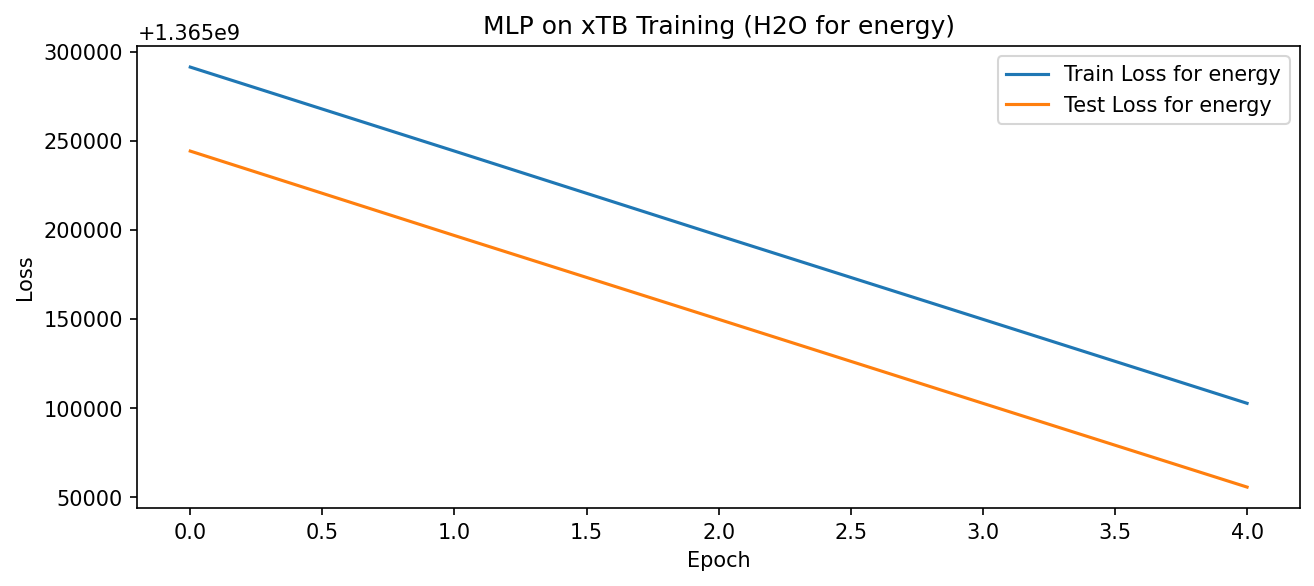
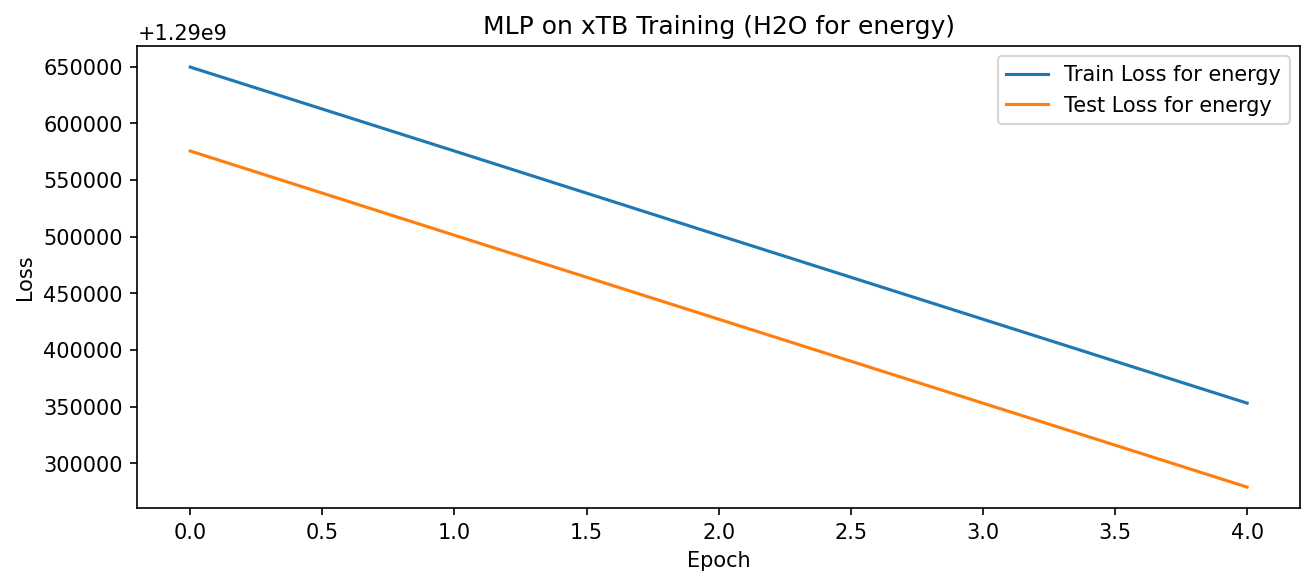
including autograd for forces

diff --git a/mlp2.py b/mlp2.py
@@ -271,11 +271,35 @@ def molecules_to_tensors(molecules, device):
         # 5. LJ forces
         F_atom_t = torch.tensor(F_atom, dtype=torch.float32, device=device)
 
-        samples.append((node_t, edge_t, trip_t, pos_t, E_total, F_atom_t, N))
+        samples.append((node_t, edge_t, trip_t, pos_t, E_total, F_atom_t, N, els))
         targets_E.append(E_total)
 
     return samples, targets_E
 
+# everything here should be in pytorch 
+def edge_features_torch(pos_t, elements, cutoff: float = 4.0):
+    """For autograd to generate forces"""
+    N = len(elements)
+    pairs = torch.triu_indices(row=N, col=N, offset=1) # unique pairs of atom indices
+
+    
+    i_idx = pairs[0]
+    j_idx = pairs[1]
+    diff = pos_t[i_idx] - pos_t[j_idx]
+    dists = torch.norm(diff, dim=-1)
+    mask = dists < cutoff 
+    dists = dists[mask] # applying cutoff for meaningful distances
+    print(f'shape of distsL {dists.shape}')
+    log_prods = torch.tensor([log_primes[elements[i]] + log_primes[elements[j]]
+                         for i, j in zip(i_idx.tolist(), j_idx.tolist())], dtype=pos_t.dtype)
+    
+    log_prods = log_prods[mask]
+    print(f'shape of log prds: {log_prods.shape}')
+    edge_features = torch.stack((log_prods, dists), dim=1)
+
+    print(f'Shape of edge features: {edge_features.shape}')
+    return edge_features
+    
 
 # DATASET CLASS + COLLATE
 class EnergyDataset(Dataset):
@@ -304,12 +328,13 @@ def collate_fn(batch):
     E_total_batch = torch.tensor([b[4] for b in batch], dtype=torch.float32, device=device)
     F_batch = [b[5] for b in batch]
     N_batch = [b[6] for b in batch]
+    elements_batch = [b[7] for b in batch]
 
     return (node_batch, edge_batch, triplet_batch, pos_batch,
-            E_total_batch, F_batch, N_batch)
+            E_total_batch, F_batch, N_batch, elements_batch)
 
 
-def train_model_energy(model, train_loader, test_loader, optimizer, epochs):
+def train_model_energy_forces(model, train_loader, test_loader, optimizer, epochs):
     train_losses = []
     test_losses = []
 
@@ -320,33 +345,44 @@ def train_model_energy(model, train_loader, test_loader, optimizer, epochs):
         epoch_loss = 0.0
 
         for (node_batch, edge_batch, triplet_batch, pos_batch,
-             E_total_tar, F_tar, N_batch) in train_loader:
+             E_total_tar, F_tar, N_batch, elements_batch) in train_loader:
 
             batch_size = len(E_total_tar)
             optimizer.zero_grad()
 
-            loss_E_tot = 0.0
+            batch_loss = 0.0
 
             for i in range(batch_size):
                 node_i = node_batch[i]
-                edge_i = edge_batch[i]
+                # edge_i = edge_batch[i]
                 trip_i = triplet_batch[i]
+                F_tar_i = F_tar[i]
+                elements_i = elements_batch[i]
+                
                 pos_i = pos_batch[i].clone().detach().requires_grad_(True)
+                
                 N = N_batch[i]
+                # computing edge features in training to access forces
+                edge_i = edge_features_torch(pos_i, elements_i)
 
-                # 1. Total energy loss (LJ)
-                total_E_pred = model.forward_energy(node_i, edge_i, trip_i)
-                loss_E = (total_E_pred - E_total_tar[i])**2
-                loss_E_tot += loss_E
+                # 1. energy loss 
+                E_pred = model.forward_energy(node_i, edge_i, trip_i)
+                loss_E = (E_pred - E_total_tar[i])**2
+                
 
-            loss_E_avg = loss_E_tot / batch_size
-        
-           
-            total_loss = loss_E_avg 
+                # 2. Force loss 
+                grads = torch.autograd.grad(E_pred, pos_i, create_graph=True)[0]
+                F_pred = -grads
+                loss_F = ((F_pred - F_tar_i)**2).mean()
+            
+                batch_loss += loss_E + loss_F # equal weighting for now
+
+            total_loss = batch_loss / batch_size
+
             #print("Running batch loss tracker. E_loss:", loss_E_avg) 
             total_loss.backward()
             optimizer.step()
-            epoch_loss += total_loss
+            epoch_loss += total_loss.item()
 
         avg_epoch_loss = epoch_loss /len(train_loader)
         print("Running epoch loss tracker:", avg_epoch_loss, "last epoch's loss:", last_epoch_loss) 
@@ -356,32 +392,40 @@ def train_model_energy(model, train_loader, test_loader, optimizer, epochs):
         # Evaluation
         model.eval()
         test_loss = 0.0
-        with torch.no_grad():
-            for (node_batch, edge_batch, triplet_batch, pos_batch,
-                 E_total_tar,F_tar, N_batch) in test_loader:
-                batch_size = len(E_total_tar)
-                batch_loss = 0.0
-                for i in range(batch_size):
-                    node_i = node_batch[i]
-                    edge_i = edge_batch[i]
-                    trip_i = triplet_batch[i]
-                    pos_i = pos_batch[i]
-                    N = N_batch[i]
 
-                    total_E_pred = model.forward_energy(node_i, edge_i, trip_i)
-                    loss_E = (total_E_pred - E_total_tar[i])**2
+        # force evaluation 
+        for (node_batch, edge_batch, triplet_batch, pos_batch,
+                E_total_tar,F_tar, N_batch, elements_batch) in test_loader:
+            batch_size = len(E_total_tar)
+            batch_loss = 0.0
+            for i in range(batch_size):
+                node_i = node_batch[i]
+                edge_i = edge_batch[i]
+                trip_i = triplet_batch[i]
+                pos_i = pos_batch[i]
+                elements_i = elements_batch[i]
+                N = N_batch[i]
 
-                    batch_loss += loss_E
+                edge_i = edge_features_torch(pos_i, elements_i)
 
-                test_loss += batch_loss / batch_size
+                E_pred = model.forward_energy(node_i, edge_i, trip_i)
+                loss_E = (E_pred - E_total_tar[i])**2
 
-            test_loss /= len(test_loader)
-            test_losses.append(test_loss.detach().cpu().item())
-            print(f'Test loss: {test_loss}')
-        if epoch % 10 == 0:
-            print(f"Epoch {epoch}: Train Loss = {avg_epoch_loss:.4f}, Test Loss = {test_loss:.4f}")
+                grads = torch.autograd.grad(E_pred, pos_i, create_graph=True)[0]
+                F_pred = -grads
+                loss_F = ((F_pred - F_tar_i)**2).mean()
+                batch_loss += loss_E + loss_F
+                
+                
+            test_loss += batch_loss / batch_size
 
-    model.save('model_dropout.pt')
+        test_loss /= len(test_loader)
+        test_losses.append(test_loss.detach().cpu().item())
+        print(f'Test loss: {test_loss}')
+    if epoch % 10 == 0:
+        print(f"Epoch {epoch}: Train Loss = {avg_epoch_loss:.4f}, Test Loss = {test_loss:.4f}")
+
+    model.save('mlp.xtb.pt')
     return train_losses, test_losses
 
 
@@ -396,6 +440,7 @@ def plot_losses(train_losses, test_losses):
     plt.legend()
     plt.savefig('mlp_xtb.png', dpi=150, bbox_inches='tight')
     plt.close()
+
 
 
 # MAIN EXECUTION
@@ -459,9 +504,11 @@ def main():
     epochs = 5
     print("Learning rate:", lr)
     optimizer = optim.Adam(model.parameters(), lr)
-    train_losses, test_losses = train_model_energy(model, train_loader, test_loader, optimizer, epochs)
+    train_losses, test_losses = train_model_energy_forces(model, train_loader, test_loader, optimizer, epochs)
     print('Done training')
     print('model saving finished')
+    print(f'Train losses: \n {train_losses}')
+    print(f'Test losses: \n {test_losses}')
     try: 
         plot_losses(train_losses, test_losses)
         print('Loss plotted to mlp_xtb.png')
